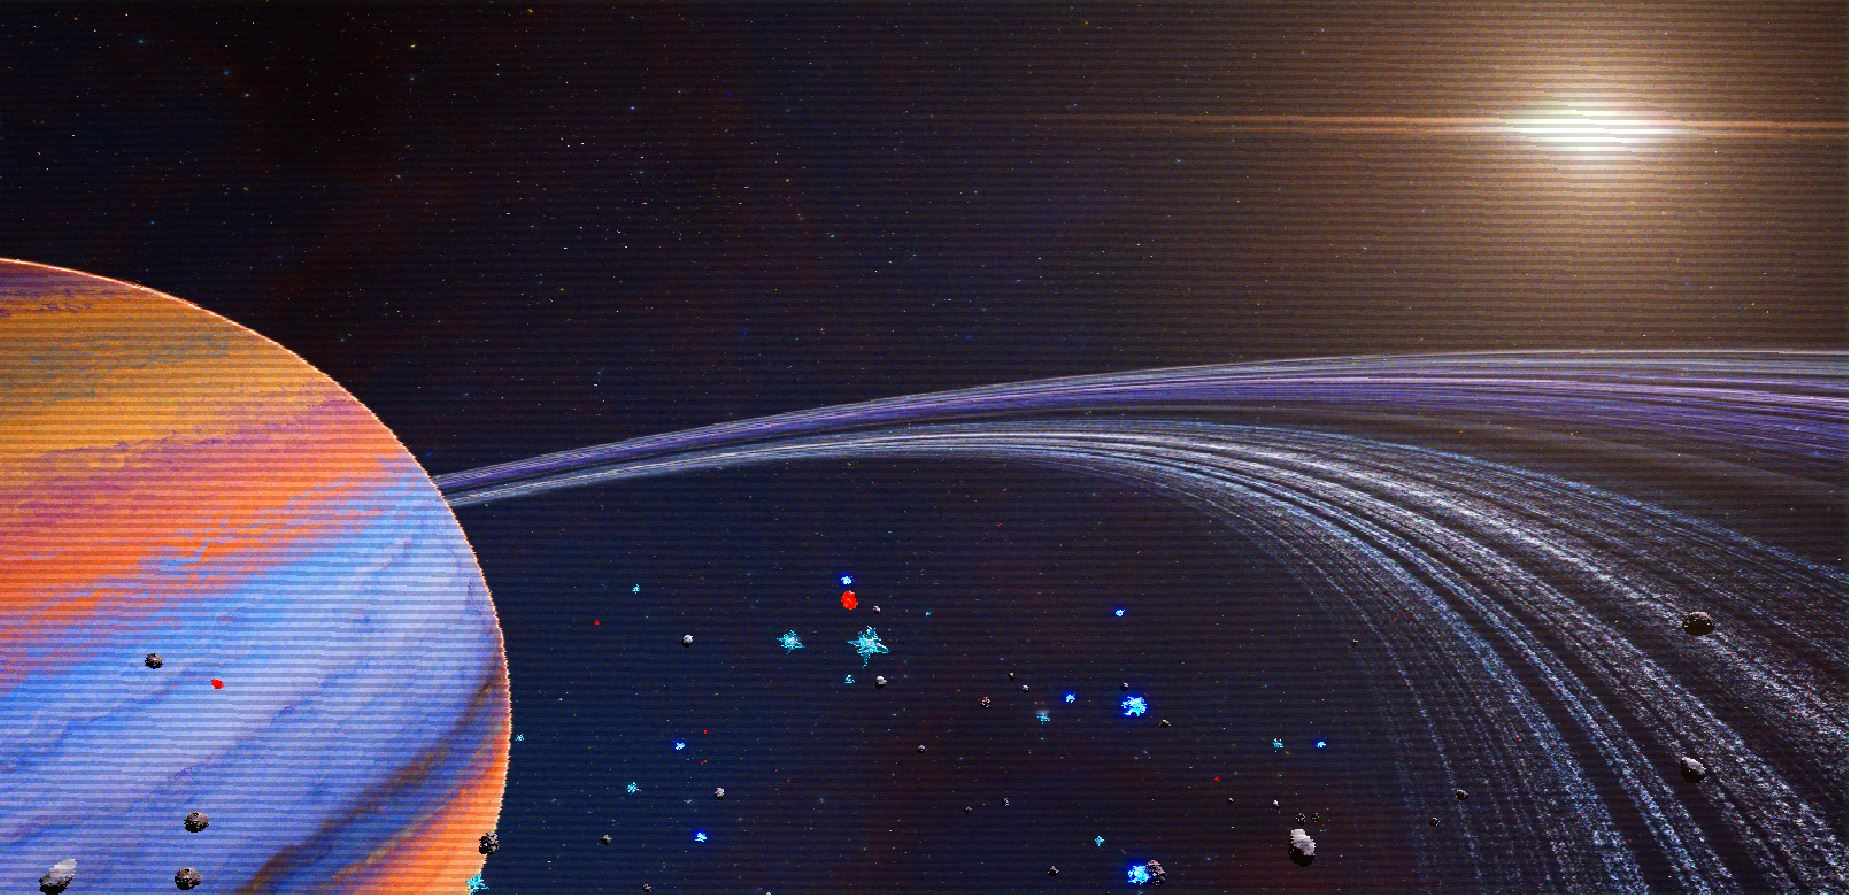
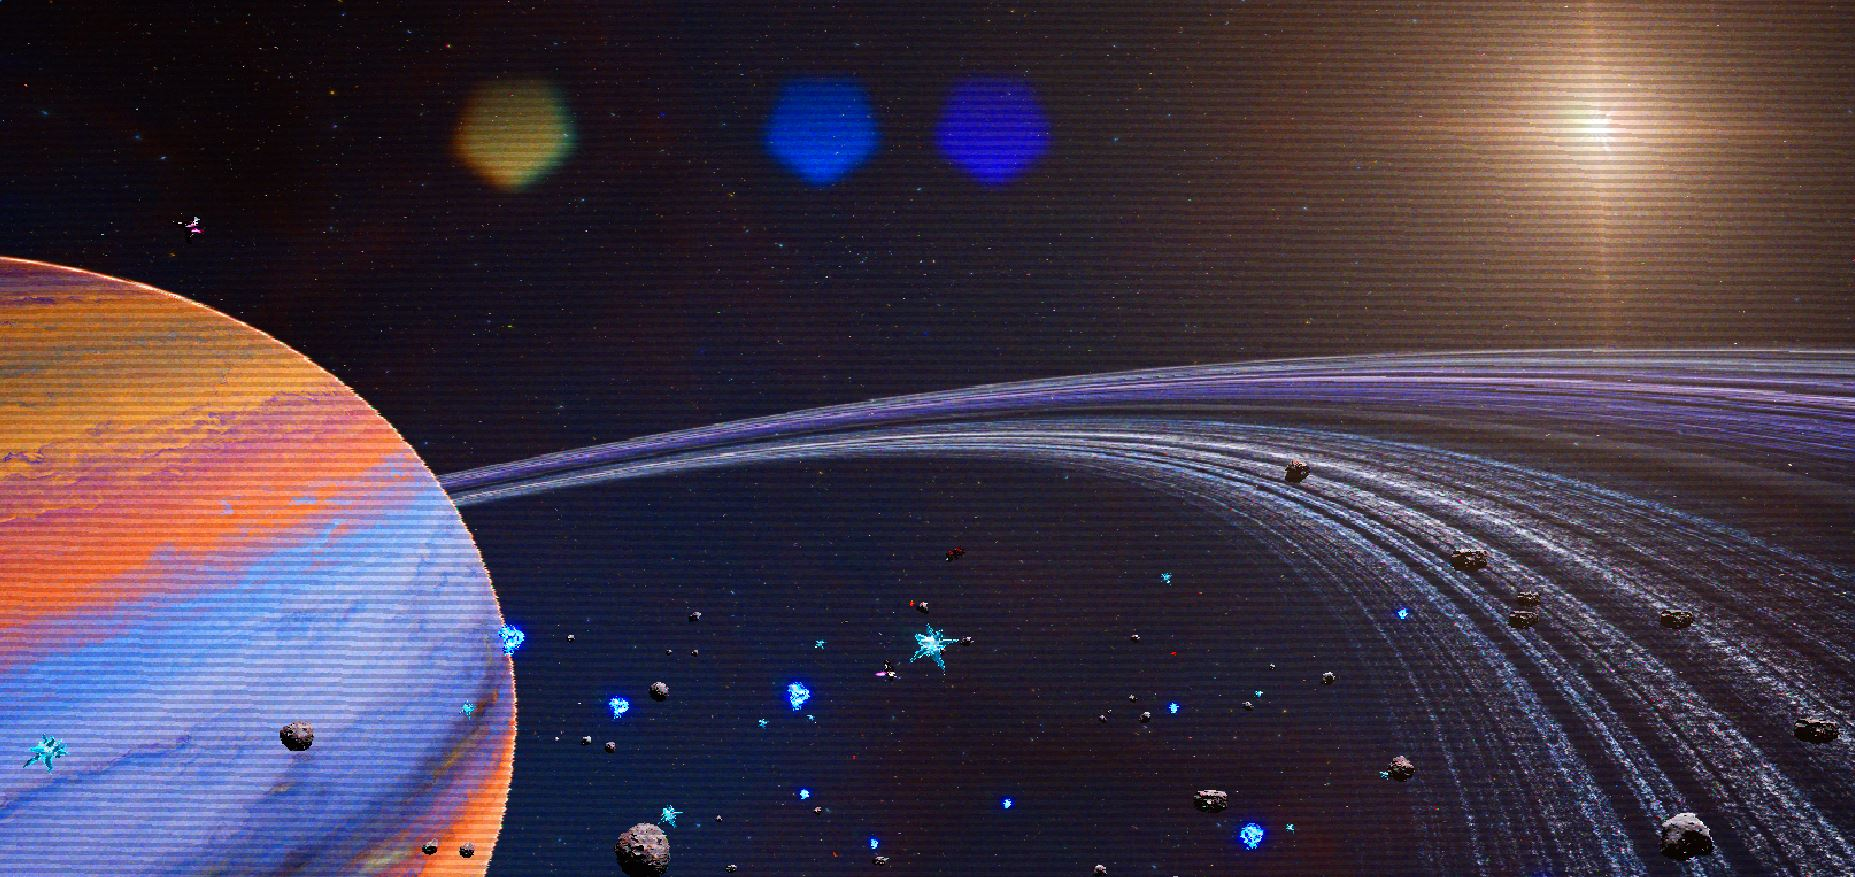
Background image tweaks

diff --git a/src/views/EarthbornView.vue b/src/views/EarthbornView.vue
@@ -11,12 +11,7 @@
         <p class="eb-desc">
           Humanity is fighting a war against the Xiual Mind, an ancient psychic xenos race. Take flight and collect powerful
           Shards, adapt your build each run, and push further towards the Conduit.
-  
         </p>
-        <div class="eb-status">
-          <span class="status-dot"></span>
-          <span>In active development — Unreal Engine 5</span>
-        </div>
       </div>
     </section>
     
@@ -96,7 +91,7 @@
           Screenshots from each Dev Note, with the most recent at the top.
         </p>
         <div class="sc-chips">
-          <p class="devnotes-placeholder">Solar Hazard Level WIP</p>
+          <p class="devnotes-placeholder">First Dev Note Screenshot</p>
           <img src="/img/DevImg_1.jpg" alt="Dev Note 1">
         </div>
       </div>
@@ -155,8 +150,7 @@ const screenshots = [
 .eb-hero-grid {
   position: absolute;
   inset: 0;
-  background-image: linear-gradient(to top, #07090d 0%, rgba(255,255,255,0) 15%),url("/img/EE_BG.JPG");
-  mask-image: radial-gradient(ellipse at 30% 50%, transparent 0%, black 70%);
+  background-image: linear-gradient(to top, #07090d 0%, rgba(255,255,255,0) 25%),url("/img/EE_BG.JPG");
 }
 
 .eb-hero-content {
@@ -192,29 +186,6 @@ const screenshots = [
   margin-bottom: 2rem;
 }
 
-.eb-status {
-  display: inline-flex;
-  align-items: center;
-  gap: 0.6rem;
-  font-family: 'Rajdhani', sans-serif;
-  font-size: 0.8rem;
-  letter-spacing: 0.1em;
-  text-transform: uppercase;
-  
-  
-
-  border: 1px solid var(--border);
-  border-color: aliceblue;
-  border-radius: 100px;
-  padding: 0.4rem 1rem;
-}
-.status-dot {
-  width: 6px; height: 6px;
-  border-radius: 50%;
-  background: #6eff73;
-  box-shadow: 0 0 8px #4caf50;
-  animation: pulse 2s ease-in-out infinite;
-}
 @keyframes pulse {
   0%, 100% { opacity: 1; }
   50% { opacity: 0.4; }

diff --git a/src/views/HomeView.vue b/src/views/HomeView.vue
@@ -109,7 +109,7 @@
           <p class="section-label">Get In Touch</p>
           <h2 class="section-title">Contact</h2>
           <p class="contact-sub">
-            Have a question, want to collaborate, or want to contact me?
+            Have a question or want to get in touch?
           </p>
           <div class="contact-links">
             <a href="mailto:[email redacted]" class="contact-link">
@@ -131,10 +131,6 @@
 </template>
 
 <script setup>
-
-function scrollToContact() {
-  document.getElementById('contact')?.scrollIntoView({ behavior: 'smooth' })
-}
 
 const skills = [
   {  name: 'B.S. Computer Science',  category: 'Education' },
@@ -165,7 +161,6 @@ const skills = [
     linear-gradient(rgba(28, 35, 54, 0.4) 1px, transparent 1px),
     linear-gradient(90deg, rgba(28, 35, 54, 0.4) 1px, transparent 1px);
   background-size: 60px 60px;
-  mask-image: radial-gradient(ellipse at 50% 100%, transparent 20%, black 70%);
 }
 .ph-content { 
 position: relative; z-index: 1; padding-top: 8rem; 

diff --git a/src/views/PersonalView.vue b/src/views/PersonalView.vue
@@ -41,7 +41,7 @@
               40,000. 
             </p>
             <p>
-              I enjoy reading books about the lore and history of the universe. My favorite books is the Night Lord omnibus, following the 
+              I enjoy reading books about the lore and history of the universe. My favorite book is the Night Lord omnibus, following the 
               traitorous Night Lords as they try to survive in a hostile galaxy. 
               <br> <br>
               Another aspect I enjoy is minifig painting, below are some images of figures I have painted. 
@@ -215,7 +215,6 @@ function openLightbox(photo) { lightbox.value = photo }
   linear-gradient(rgba(28, 35, 54, 0.4) 1px, transparent 1px),
   linear-gradient(90deg, rgba(28, 35, 54, 0.4) 1px, transparent 1px);
   background-size: 60px 60px;
-  mask-image: radial-gradient(ellipse at 50% 100%, transparent 20%, black 70%);
 }
 .ph-content { position: relative; z-index: 1; padding-top: 8rem; }
 .ph-title {